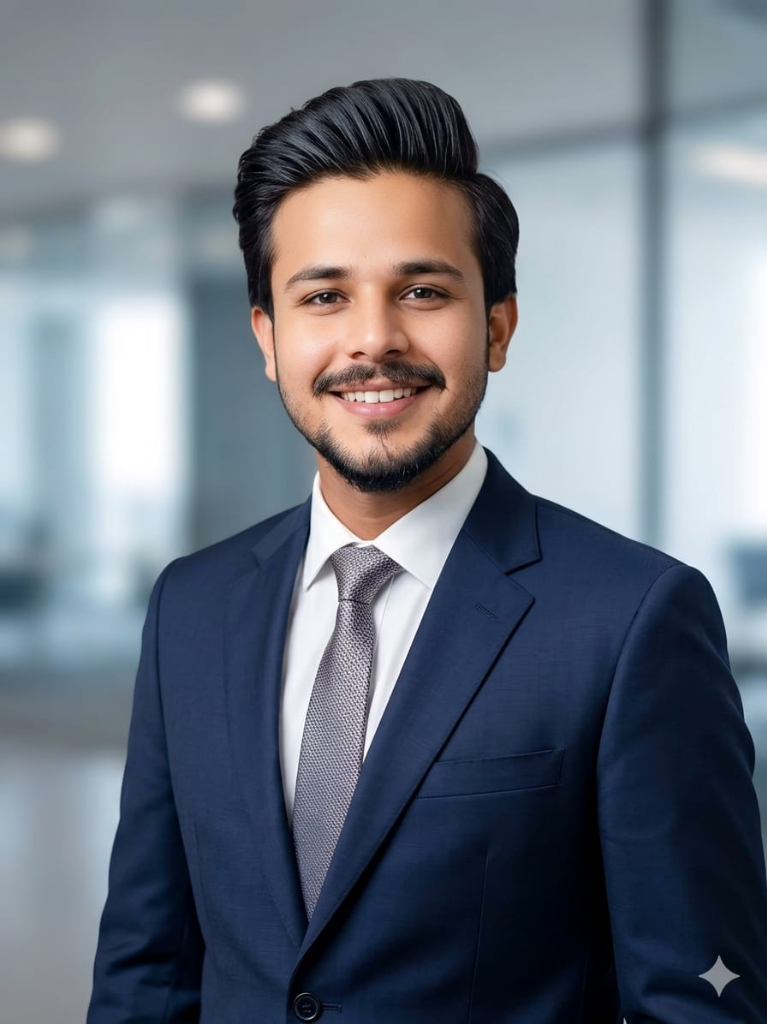
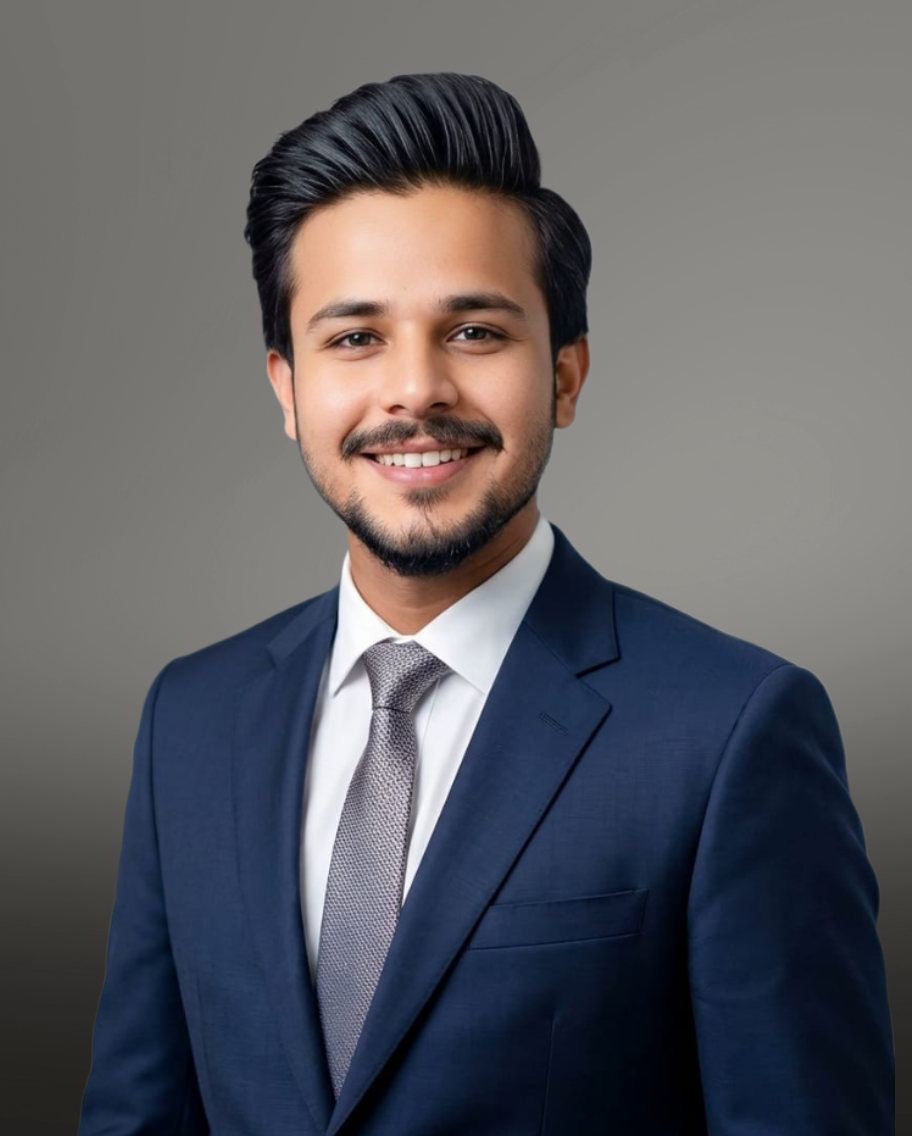
all ok

diff --git a/src/components/TeamGrid.jsx b/src/components/TeamGrid.jsx
@@ -1,13 +1,13 @@
 import React, { useRef } from "react";
 import { motion, useMotionValue, useTransform } from "framer-motion";
 import Hamza from "../assets/hamza.png";
-import Sabir from "../assets/sabir.jpeg";
-import Mubeen from "../assets/mubeen.jpg";
+import Sabir from "../assets/sabir.png";
+import Mubeen from "../assets/mubeen.png";
 import Meer from "../assets/meer.png";
 import Talha from "../assets/talha.png";
-import Abeeha from "../assets/Abeeha.webp";
-import Wahaj from "../assets/Wahaj.jpeg";
-import Rahul from "../assets/rahul-team.jpeg";
+import Abeeha from "../assets/Abeeha.png";
+import Wahaj from "../assets/Wahaj.png";
+import Rahul from "../assets/rahul-team.png";
 
 const cardData = [
   {
@@ -109,7 +109,7 @@ const PremiumCard = ({ data }) => {
         transformStyle: "preserve-3d",
       }}
       // OPTIMIZATION 2: will-change-transform add kiya hai taake browser isse GPU par render kare
-      className="group relative h-95 sm:h-105 md:h-112.5 w-full rounded-3xl bg-dark-200 shadow-xl overflow-hidden cursor-pointer border border-white/10 will-change-transform transition-all duration-200 ease-out"
+      className="group relative h-115 w-full rounded-3xl bg-dark-200 shadow-xl overflow-hidden cursor-pointer border border-white/10 will-change-transform transition-all duration-200 ease-out"
     >
       {/* BACKGROUND IMAGE */}
       <motion.div
@@ -120,12 +120,10 @@ const PremiumCard = ({ data }) => {
           className="absolute inset-0 bg-cover bg-center transition-all duration-500 group-hover:saturate-150"
           style={{ backgroundImage: `url(${data.image})` }}
         />
-        <div className="absolute inset-0 bg-black/20 transition-opacity duration-500 group-hover:opacity-20" />
       </motion.div>
 
       {/* GRADIENTS */}
-      <div className="absolute inset-0 bg-linear-to-t from-accent-alt via-black/50 to-transparent opacity-60 translate-y-[40%] transition-transform duration-500 group-hover:translate-y-[20%] group-hover:opacity-90 mix-blend-overlay" />
-      <div className="absolute inset-0 bg-linear-to-t from-black via-black/80 to-transparent opacity-90 transition-all duration-500 group-hover:opacity-70" />
+      <div className="absolute inset-0 bg-linear-to-t from-black via-black/40 to-transparent opacity-90 transition-all duration-500 group-hover:opacity-70" />
 
       {/* CONTENT CONTAINER */}
       <div
@@ -164,16 +162,13 @@ const PremiumCard = ({ data }) => {
 const TeamGrid = () => {
   return (
     <div className="relative bg-main-bg py-16 md:py-24 px-4 md:px-10 overflow-hidden">
-        <div className="absolute top-[-20%] left-[-10%] w-150 h-150 bg-[#042558] blur-[140px]" />
-        <div className="absolute bottom-[-20%] right-[-10%] w-250 h-250 bg-[#042558] blur-[140px]" />
+      <div className="absolute top-[-20%] left-[-10%] w-150 h-150 bg-[#042558] blur-[140px]" />
+      <div className="absolute bottom-[-20%] right-[-10%] w-250 h-250 bg-[#042558] blur-[140px]" />
       <div className="relative max-w-350 mx-auto z-10">
         {/* Header */}
         <div className="text-center mb-20">
           <h2 className="text-5xl md:text-6xl font-black tracking-tighter text-off-white mb-2">
-            MEET THE{" "}
-            <span className="highlight">
-              TEAM
-            </span>
+            MEET THE <span className="highlight">TEAM</span>
           </h2>
           <div className="h-1 w-24 bg-linear-to-r from-transparent via-accent-alt to-transparent mx-auto" />
         </div>

diff --git a/src/pages/Team.jsx b/src/pages/Team.jsx
@@ -58,7 +58,7 @@ const Team = () => {
             initial={{ opacity: 0, y: 20 }}
             animate={{ opacity: 1, y: 0 }}
           >
-            <h1 className="text-2xl sm:text-4xl md:text-[8rem] font-black italic leading-[0.8] tracking-tighter uppercase sm:mb-10 mb-4">
+            <h1 className="text-5xl md:text-[8rem] font-black italic leading-[0.8] tracking-tighter uppercase sm:mb-10 mb-4">
               OUR{" "}
               <span className="text-transparent stroke-text italic font-serif">
                 TEAM.
@@ -119,7 +119,7 @@ const Team = () => {
 
       {/* SECTION 5 (ODD): JOIN THE PIPELINE */}
       <section
-        className="relative sm:py-16 py-10 px-4 bg-fixed bg-cover bg-center sm:text-center overflow-hidden"
+        className="relative sm:py-16 py-10 px-4 bg-fixed bg-cover bg-center text-center overflow-hidden"
         style={{
           backgroundImage: `url('https://images.unsplash.com/photo-1522071820081-009f0129c71c?q=80&w=2070')`,
         }}
@@ -129,7 +129,7 @@ const Team = () => {
 
         <div className="relative max-w-5xl mx-auto sm:space-y-8 space-y-4 z-10 text-white">
           {/* small label */}
-          <div className="flex sm:justify-center items-center gap-3 text-[10px] uppercase tracking-[0.4em] text-off-white font-bold">
+          <div className="flex justify-center items-center gap-3 text-[10px] uppercase tracking-[0.4em] text-off-white font-bold">
             <span className="sm:w-10 w-4 h-px bg-off-white" />
             Join The Network
           </div>
@@ -139,14 +139,14 @@ const Team = () => {
             whileInView={{ scale: [0.9, 1], opacity: [0, 1] }}
             transition={{ duration: 0.8 }}
           >
-            <h2 className="text-3xl sm:text-6xl md:text-8xl font-black tracking-tighter uppercase leading-[0.8]">
+            <h2 className="text-5xl sm:text-6xl md:text-8xl font-black tracking-tighter uppercase leading-[0.8]">
               BUILD THE <br />
               <span className="text-transparent stroke-text">FUTURE.</span>
             </h2>
           </motion.div>
 
           {/* description */}
-          <p className="text-zinc-300 text-sm sm:text-lg md:text-xl font-light leading-relaxed max-w-2xl mx-auto">
+          <p className="text-zinc-200 text-sm sm:text-lg md:text-xl font-light leading-relaxed max-w-2xl mx-auto">
             We’re assembling a high-performance engineering team focused on AI,
             distributed systems, and next-generation products. If you think in
             systems and build with precision, you’ll fit right in.
